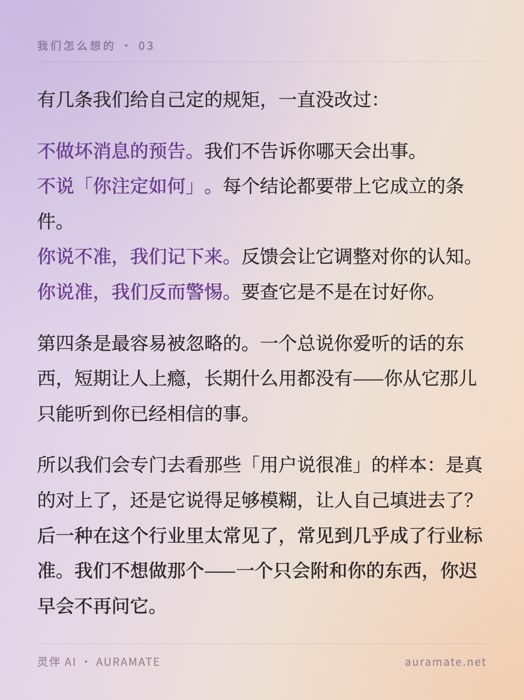
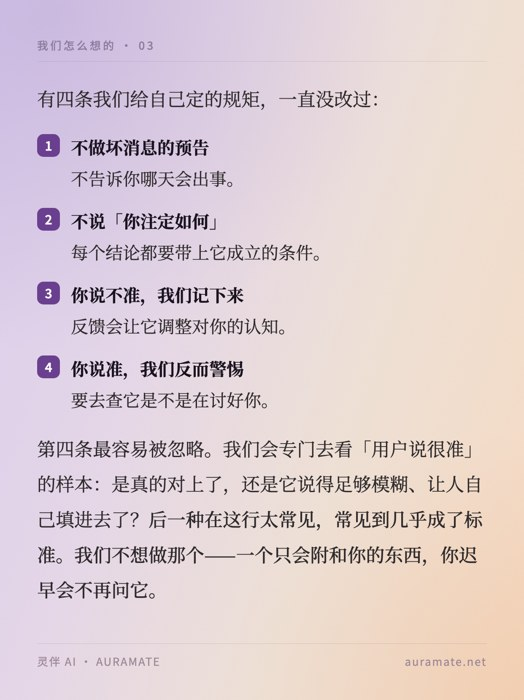
并列内容改成编号列表：规则 / 原则 / 清单
用户：「有些重点内容需要发 1 2 3 那种」。当时活动帖的「怎么参加」是五段散文，
规则（带标签发笔记 / 挑十个 / 送一个月会员 / 评选标准）全埋在里面，
手机上扫一眼什么都抓不到。

模板加 ol.list 块：紫色圆角编号 + 加粗要点独占一行 + 下面一句解释。
三处改成列表 —— 活动帖「规则三条」、理念帖「四条规矩」、节令「这几天三件事」。

判断标准写进 03-copywriting 第七节，就一条：**这段内容之间是什么关系**。
  N 件并列的事（规则/步骤/清单/对照）→ 编号列表
  一条推导链（前提→结论、痛点→reframe→落点、机制解释）→ 保持段落

⚠ 推导链千万别编号 —— 编号会把前后的推导关系切成并列，读者以为是三件不相干的事。
所以十神的「气通/气不通」机制、叙事随笔的痛点→落点、「木换五个人看」都保持段落。
教程的八个术语翻译也不编号，它是查表不是步骤。

顺带修一个自己埋的雷：模板注释里写了「编号会把因果切成并列」，
「因果」是违禁词，而这条注释会跟着每个生成的 slide 走 ——
等于给未来每一篇 post 埋了个永久误报。已换成「前后的推导关系」。

20 张仍全部写满，红线通过。

Changed region(s): [[0.0611, 0.18, 0.916, 0.6], [0.0611, 0.63, 0.916, 0.9], [0.0916, 0.12, 0.1527, 0.15]]

diff --git a/docs/demo/07-dashang-2.html b/docs/demo/07-dashang-2.html
@@ -21,16 +21,26 @@ html,body{width:1242px;height:1660px;font-family:'Noto Serif SC','Songti SC',ser
 .body .em{color:#6b3f8f;font-weight:500;}
 .body .en{color:#8a5a52;font-style:italic;}
 .body .last{font-weight:500;}
+/* 编号列表 —— 内容本身是「N 件并列的事」时用它，别写成散文。
+   规则 / 步骤 / 清单 / 对照，手机上扫一眼就能抓到要点。
+   ⚠ 一条推导链**不要**编号 —— 编号会把前后的推导关系切成并列，逻辑就断了。 */
+.body ol.list{counter-reset:n;list-style:none;margin:6px 0 0;}
+.body ol.list li{counter-increment:n;position:relative;padding-left:80px;margin-bottom:30px;
+  font-size:41px;line-height:1.72;}
+.body ol.list li:last-child{margin-bottom:0;}
+.body ol.list li::before{content:counter(n);position:absolute;left:0;top:4px;
+  width:54px;height:54px;border-radius:15px;background:#6b3f8f;color:#fff;
+  font-family:'Noto Sans SC','PingFang SC',sans-serif;font-size:30px;font-weight:700;
+  display:flex;align-items:center;justify-content:center;}
+.body ol.list b{display:block;font-weight:700;color:#1a1420;margin-bottom:4px;}
 .foot{padding-top:22px;border-top:1px solid rgba(90,70,95,0.18);display:flex;justify-content:space-between;align-items:center;
   font-family:'Noto Sans SC','PingFang SC',sans-serif;font-size:26px;color:#9e8a99;letter-spacing:0.1em;}
 </style></head><body><div class="frame">
 <div class="kicker">灵体大赏 · 01</div>
 <div class="body">
-  <p>每个人的灵体都是按自己那份出生时间数据算出来的一颗，颜色、形状、亮的位置全不一样。看得多了会发现，有些人的那颗<span class="em">是真的好看</span>。</p>
-  <p>所以办一次灵体大赏：带话题标签发一条自己的笔记，把你那颗放出来就行。我们挑十个，各送<span class="em">一个月会员</span>。</p>
-  <p>评选没什么复杂标准，就一条：<span class="em">好看</span>。颜色配得好的、形状有意思的、亮的位置特别的，都算。我们不会按谁的粉丝多来挑，也不看你笔记写得长不长。想多写两句为什么这颗是这个样子，当然更好看，但不写也不影响入选。</p>
-  <p>至于为什么办这个：灵体是这个产品里我们自己最喜欢的部分，但它长在每个人自己那儿——我们说一百句都不如你们把它放出来。</p>
-  <p><span class="last">不用在评论区做什么，也不用来找我，正常发笔记就行。挑完发一条公示，把入选的十颗放一起——那张图应该会很好看。</span></p>
+  <p>每个人的灵体都是按自己那份出生时间数据算出来的一颗，颜色、形状、亮的位置全不一样。看得多了会发现，有些人的那颗<span class="em">是真的好看</span>。所以办一次大赏，规则三条：</p>
+  <p><ol class="list"><li><b>带 #灵体大赏 标签发一条自己的笔记</b>把你那颗放出来就行。不用在评论区做什么，也不用来找我。</li><li><b>我们挑十个，各送一个月会员</b>评选只看一条：好看。颜色配得好的、形状有意思的、亮的位置特别的，都算。</li><li><b>不看粉丝数，也不看笔记长短</b>想写两句为什么这颗长这样当然更好，不写也不影响入选。</li></ol></p>
+  <p><span class="last">为什么办这个：灵体是这个产品里我们自己最喜欢的部分，但它长在每个人自己那儿——我们说一百句，都不如你们把它放出来。挑完会发一条公示，把入选的十颗放一起，那张图应该会很好看。</span></p>
 </div>
 <div class="foot"><span>灵伴 AI · AURAMATE</span><span>auramate.net</span></div>
 </div></body></html>

diff --git a/docs/demo/09-linian-4.html b/docs/demo/09-linian-4.html
@@ -21,15 +21,26 @@ html,body{width:1242px;height:1660px;font-family:'Noto Serif SC','Songti SC',ser
 .body .em{color:#6b3f8f;font-weight:500;}
 .body .en{color:#8a5a52;font-style:italic;}
 .body .last{font-weight:500;}
+/* 编号列表 —— 内容本身是「N 件并列的事」时用它，别写成散文。
+   规则 / 步骤 / 清单 / 对照，手机上扫一眼就能抓到要点。
+   ⚠ 一条推导链**不要**编号 —— 编号会把前后的推导关系切成并列，逻辑就断了。 */
+.body ol.list{counter-reset:n;list-style:none;margin:6px 0 0;}
+.body ol.list li{counter-increment:n;position:relative;padding-left:80px;margin-bottom:30px;
+  font-size:41px;line-height:1.72;}
+.body ol.list li:last-child{margin-bottom:0;}
+.body ol.list li::before{content:counter(n);position:absolute;left:0;top:4px;
+  width:54px;height:54px;border-radius:15px;background:#6b3f8f;color:#fff;
+  font-family:'Noto Sans SC','PingFang SC',sans-serif;font-size:30px;font-weight:700;
+  display:flex;align-items:center;justify-content:center;}
+.body ol.list b{display:block;font-weight:700;color:#1a1420;margin-bottom:4px;}
 .foot{padding-top:22px;border-top:1px solid rgba(90,70,95,0.18);display:flex;justify-content:space-between;align-items:center;
   font-family:'Noto Sans SC','PingFang SC',sans-serif;font-size:26px;color:#9e8a99;letter-spacing:0.1em;}
 </style></head><body><div class="frame">
 <div class="kicker">我们怎么想的 · 03</div>
 <div class="body">
-  <p>有几条我们给自己定的规矩，一直没改过：</p>
-  <p><span class="em">不做坏消息的预告。</span>我们不告诉你哪天会出事。<br/><span class="em">不说「你注定如何」。</span>每个结论都要带上它成立的条件。<br/><span class="em">你说不准，我们记下来。</span>反馈会让它调整对你的认知。<br/><span class="em">你说准，我们反而警惕。</span>要查它是不是在讨好你。</p>
-  <p>第四条是最容易被忽略的。一个总说你爱听的话的东西，短期让人上瘾，长期什么用都没有——你从它那儿只能听到你已经相信的事。</p>
-  <p>所以我们会专门去看那些「用户说很准」的样本：是真的对上了，还是它说得足够模糊，让人自己填进去了？<span class="last">后一种在这个行业里太常见了，常见到几乎成了行业标准。我们不想做那个——一个只会附和你的东西，你迟早会不再问它。</span></p>
+  <p>有四条我们给自己定的规矩，一直没改过：</p>
+  <p><ol class="list"><li><b>不做坏消息的预告</b>不告诉你哪天会出事。</li><li><b>不说「你注定如何」</b>每个结论都要带上它成立的条件。</li><li><b>你说不准，我们记下来</b>反馈会让它调整对你的认知。</li><li><b>你说准，我们反而警惕</b>要去查它是不是在讨好你。</li></ol></p>
+  <p>第四条最容易被忽略。我们会专门去看「用户说很准」的样本：是真的对上了，还是它说得足够模糊、让人自己填进去了？<span class="last">后一种在这行太常见，常见到几乎成了标准。我们不想做那个——一个只会附和你的东西，你迟早会不再问它。</span></p>
 </div>
 <div class="foot"><span>灵伴 AI · AURAMATE</span><span>auramate.net</span></div>
 </div></body></html>

diff --git a/docs/demo/08-jieling-5.html b/docs/demo/08-jieling-5.html
@@ -21,16 +21,27 @@ html,body{width:1242px;height:1660px;font-family:'Noto Serif SC','Songti SC',ser
 .body .em{color:#6b3f8f;font-weight:500;}
 .body .en{color:#8a5a52;font-style:italic;}
 .body .last{font-weight:500;}
+/* 编号列表 —— 内容本身是「N 件并列的事」时用它，别写成散文。
+   规则 / 步骤 / 清单 / 对照，手机上扫一眼就能抓到要点。
+   ⚠ 一条推导链**不要**编号 —— 编号会把前后的推导关系切成并列，逻辑就断了。 */
+.body ol.list{counter-reset:n;list-style:none;margin:6px 0 0;}
+.body ol.list li{counter-increment:n;position:relative;padding-left:80px;margin-bottom:30px;
+  font-size:41px;line-height:1.72;}
+.body ol.list li:last-child{margin-bottom:0;}
+.body ol.list li::before{content:counter(n);position:absolute;left:0;top:4px;
+  width:54px;height:54px;border-radius:15px;background:#6b3f8f;color:#fff;
+  font-family:'Noto Sans SC','PingFang SC',sans-serif;font-size:30px;font-weight:700;
+  display:flex;align-items:center;justify-content:center;}
+.body ol.list b{display:block;font-weight:700;color:#1a1420;margin-bottom:4px;}
 .foot{padding-top:22px;border-top:1px solid rgba(90,70,95,0.18);display:flex;justify-content:space-between;align-items:center;
   font-family:'Noto Sans SC','PingFang SC',sans-serif;font-size:26px;color:#9e8a99;letter-spacing:0.1em;}
 </style></head><body><div class="frame">
 <div class="kicker">节气手记 · 04</div>
 <div class="body">
-  <p>知道是脾在硬撑，这几天该怎么过就清楚了。</p>
-  <p><span class="em">少碰冰的</span>——热在体表、里头本来就是凉的，一杯冰饮下去，最先受不了的就是它。<br/><span class="em">把午觉睡回来</span>——长夏最耗的是白天那段，补在中午比熬到晚上有用。<br/><span class="em">出微汗就行</span>——出汗是散湿的，但汗出大了力气也跟着走。</p>
-  <p>三件事都是常识，没有一件是玄的。区别只在于：<span class="em">平时做不做无所谓，这十几天做不做，体感差很多。</span></p>
-  <p>也不用把它当成必须完成的任务。知道这几天身体在硬撑，把要求往下调一档就够了——该慢的时候慢，别硬跟自己较劲。</p>
-  <p><span class="last">你觉得累，真的不是你懒——是这段时间它本来就难。</span></p>
+  <p>知道是脾在硬撑，这几天该怎么过就清楚了。三件事，都是常识：</p>
+  <p><ol class="list"><li><b>少碰冰的</b>热在体表、里头本来就是凉的，一杯冰饮下去，最先受不了的就是它。</li><li><b>把午觉睡回来</b>长夏最耗的是白天那段，补在中午比熬到晚上有用。</li><li><b>出微汗就行，别练到大汗</b>出汗是散湿的，但汗出大了，力气也跟着走。</li></ol></p>
+  <p>三件都不玄。区别只在于：平时做不做无所谓，<span class="em">这十几天做不做，体感差很多</span>。</p>
+  <p>也不用把它当成任务。知道这几天身体在硬撑，把对自己的要求往下调一档就够了——该慢的时候慢，别硬跟自己较劲。<span class="last">你觉得累，真的不是你懒——是这段时间它本来就难。</span></p>
 </div>
 <div class="foot"><span>灵伴 AI · AURAMATE</span><span>auramate.net</span></div>
 </div></body></html>

diff --git a/docs/demo/01-reframe-2.html b/docs/demo/01-reframe-2.html
@@ -21,6 +21,18 @@ html,body{width:1242px;height:1660px;font-family:'Noto Serif SC','Songti SC',ser
 .body .em{color:#6b3f8f;font-weight:500;}
 .body .en{color:#8a5a52;font-style:italic;}
 .body .last{font-weight:500;}
+/* 编号列表 —— 内容本身是「N 件并列的事」时用它，别写成散文。
+   规则 / 步骤 / 清单 / 对照，手机上扫一眼就能抓到要点。
+   ⚠ 一条推导链**不要**编号 —— 编号会把前后的推导关系切成并列，逻辑就断了。 */
+.body ol.list{counter-reset:n;list-style:none;margin:6px 0 0;}
+.body ol.list li{counter-increment:n;position:relative;padding-left:80px;margin-bottom:30px;
+  font-size:41px;line-height:1.72;}
+.body ol.list li:last-child{margin-bottom:0;}
+.body ol.list li::before{content:counter(n);position:absolute;left:0;top:4px;
+  width:54px;height:54px;border-radius:15px;background:#6b3f8f;color:#fff;
+  font-family:'Noto Sans SC','PingFang SC',sans-serif;font-size:30px;font-weight:700;
+  display:flex;align-items:center;justify-content:center;}
+.body ol.list b{display:block;font-weight:700;color:#1a1420;margin-bottom:4px;}
 .foot{padding-top:22px;border-top:1px solid rgba(90,70,95,0.18);display:flex;justify-content:space-between;align-items:center;
   font-family:'Noto Sans SC','PingFang SC',sans-serif;font-size:26px;color:#9e8a99;letter-spacing:0.1em;}
 </style></head><body><div class="frame">

diff --git a/docs/demo/01-reframe-3.html b/docs/demo/01-reframe-3.html
@@ -21,6 +21,18 @@ html,body{width:1242px;height:1660px;font-family:'Noto Serif SC','Songti SC',ser
 .body .em{color:#6b3f8f;font-weight:500;}
 .body .en{color:#8a5a52;font-style:italic;}
 .body .last{font-weight:500;}
+/* 编号列表 —— 内容本身是「N 件并列的事」时用它，别写成散文。
+   规则 / 步骤 / 清单 / 对照，手机上扫一眼就能抓到要点。
+   ⚠ 一条推导链**不要**编号 —— 编号会把前后的推导关系切成并列，逻辑就断了。 */
+.body ol.list{counter-reset:n;list-style:none;margin:6px 0 0;}
+.body ol.list li{counter-increment:n;position:relative;padding-left:80px;margin-bottom:30px;
+  font-size:41px;line-height:1.72;}
+.body ol.list li:last-child{margin-bottom:0;}
+.body ol.list li::before{content:counter(n);position:absolute;left:0;top:4px;
+  width:54px;height:54px;border-radius:15px;background:#6b3f8f;color:#fff;
+  font-family:'Noto Sans SC','PingFang SC',sans-serif;font-size:30px;font-weight:700;
+  display:flex;align-items:center;justify-content:center;}
+.body ol.list b{display:block;font-weight:700;color:#1a1420;margin-bottom:4px;}
 .foot{padding-top:22px;border-top:1px solid rgba(90,70,95,0.18);display:flex;justify-content:space-between;align-items:center;
   font-family:'Noto Sans SC','PingFang SC',sans-serif;font-size:26px;color:#9e8a99;letter-spacing:0.1em;}
 </style></head><body><div class="frame">

diff --git a/docs/demo/01-reframe-6.html b/docs/demo/01-reframe-6.html
@@ -21,6 +21,18 @@ html,body{width:1242px;height:1660px;font-family:'Noto Serif SC','Songti SC',ser
 .body .em{color:#6b3f8f;font-weight:500;}
 .body .en{color:#8a5a52;font-style:italic;}
 .body .last{font-weight:500;}
+/* 编号列表 —— 内容本身是「N 件并列的事」时用它，别写成散文。
+   规则 / 步骤 / 清单 / 对照，手机上扫一眼就能抓到要点。
+   ⚠ 一条推导链**不要**编号 —— 编号会把前后的推导关系切成并列，逻辑就断了。 */
+.body ol.list{counter-reset:n;list-style:none;margin:6px 0 0;}
+.body ol.list li{counter-increment:n;position:relative;padding-left:80px;margin-bottom:30px;
+  font-size:41px;line-height:1.72;}
+.body ol.list li:last-child{margin-bottom:0;}
+.body ol.list li::before{content:counter(n);position:absolute;left:0;top:4px;
+  width:54px;height:54px;border-radius:15px;background:#6b3f8f;color:#fff;
+  font-family:'Noto Sans SC','PingFang SC',sans-serif;font-size:30px;font-weight:700;
+  display:flex;align-items:center;justify-content:center;}
+.body ol.list b{display:block;font-weight:700;color:#1a1420;margin-bottom:4px;}
 .foot{padding-top:22px;border-top:1px solid rgba(90,70,95,0.18);display:flex;justify-content:space-between;align-items:center;
   font-family:'Noto Sans SC','PingFang SC',sans-serif;font-size:26px;color:#9e8a99;letter-spacing:0.1em;}
 </style></head><body><div class="frame">

diff --git a/docs/demo/02-shishen-2.html b/docs/demo/02-shishen-2.html
@@ -21,6 +21,18 @@ html,body{width:1242px;height:1660px;font-family:'Noto Serif SC','Songti SC',ser
 .body .em{color:#6b3f8f;font-weight:500;}
 .body .en{color:#8a5a52;font-style:italic;}
 .body .last{font-weight:500;}
+/* 编号列表 —— 内容本身是「N 件并列的事」时用它，别写成散文。
+   规则 / 步骤 / 清单 / 对照，手机上扫一眼就能抓到要点。
+   ⚠ 一条推导链**不要**编号 —— 编号会把前后的推导关系切成并列，逻辑就断了。 */
+.body ol.list{counter-reset:n;list-style:none;margin:6px 0 0;}
+.body ol.list li{counter-increment:n;position:relative;padding-left:80px;margin-bottom:30px;
+  font-size:41px;line-height:1.72;}
+.body ol.list li:last-child{margin-bottom:0;}
+.body ol.list li::before{content:counter(n);position:absolute;left:0;top:4px;
+  width:54px;height:54px;border-radius:15px;background:#6b3f8f;color:#fff;
+  font-family:'Noto Sans SC','PingFang SC',sans-serif;font-size:30px;font-weight:700;
+  display:flex;align-items:center;justify-content:center;}
+.body ol.list b{display:block;font-weight:700;color:#1a1420;margin-bottom:4px;}
 .foot{padding-top:22px;border-top:1px solid rgba(90,70,95,0.18);display:flex;justify-content:space-between;align-items:center;
   font-family:'Noto Sans SC','PingFang SC',sans-serif;font-size:26px;color:#9e8a99;letter-spacing:0.1em;}
 </style></head><body><div class="frame">

diff --git a/docs/demo/02-shishen-3.html b/docs/demo/02-shishen-3.html
@@ -21,6 +21,18 @@ html,body{width:1242px;height:1660px;font-family:'Noto Serif SC','Songti SC',ser
 .body .em{color:#6b3f8f;font-weight:500;}
 .body .en{color:#8a5a52;font-style:italic;}
 .body .last{font-weight:500;}
+/* 编号列表 —— 内容本身是「N 件并列的事」时用它，别写成散文。
+   规则 / 步骤 / 清单 / 对照，手机上扫一眼就能抓到要点。
+   ⚠ 一条推导链**不要**编号 —— 编号会把前后的推导关系切成并列，逻辑就断了。 */
+.body ol.list{counter-reset:n;list-style:none;margin:6px 0 0;}
+.body ol.list li{counter-increment:n;position:relative;padding-left:80px;margin-bottom:30px;
+  font-size:41px;line-height:1.72;}
+.body ol.list li:last-child{margin-bottom:0;}
+.body ol.list li::before{content:counter(n);position:absolute;left:0;top:4px;
+  width:54px;height:54px;border-radius:15px;background:#6b3f8f;color:#fff;
+  font-family:'Noto Sans SC','PingFang SC',sans-serif;font-size:30px;font-weight:700;
+  display:flex;align-items:center;justify-content:center;}
+.body ol.list b{display:block;font-weight:700;color:#1a1420;margin-bottom:4px;}
 .foot{padding-top:22px;border-top:1px solid rgba(90,70,95,0.18);display:flex;justify-content:space-between;align-items:center;
   font-family:'Noto Sans SC','PingFang SC',sans-serif;font-size:26px;color:#9e8a99;letter-spacing:0.1em;}
 </style></head><body><div class="frame">

diff --git a/docs/demo/02-shishen-4.html b/docs/demo/02-shishen-4.html
@@ -21,6 +21,18 @@ html,body{width:1242px;height:1660px;font-family:'Noto Serif SC','Songti SC',ser
 .body .em{color:#6b3f8f;font-weight:500;}
 .body .en{color:#8a5a52;font-style:italic;}
 .body .last{font-weight:500;}
+/* 编号列表 —— 内容本身是「N 件并列的事」时用它，别写成散文。
+   规则 / 步骤 / 清单 / 对照，手机上扫一眼就能抓到要点。
+   ⚠ 一条推导链**不要**编号 —— 编号会把前后的推导关系切成并列，逻辑就断了。 */
+.body ol.list{counter-reset:n;list-style:none;margin:6px 0 0;}
+.body ol.list li{counter-increment:n;position:relative;padding-left:80px;margin-bottom:30px;
+  font-size:41px;line-height:1.72;}
+.body ol.list li:last-child{margin-bottom:0;}
+.body ol.list li::before{content:counter(n);position:absolute;left:0;top:4px;
+  width:54px;height:54px;border-radius:15px;background:#6b3f8f;color:#fff;
+  font-family:'Noto Sans SC','PingFang SC',sans-serif;font-size:30px;font-weight:700;
+  display:flex;align-items:center;justify-content:center;}
+.body ol.list b{display:block;font-weight:700;color:#1a1420;margin-bottom:4px;}
 .foot{padding-top:22px;border-top:1px solid rgba(90,70,95,0.18);display:flex;justify-content:space-between;align-items:center;
   font-family:'Noto Sans SC','PingFang SC',sans-serif;font-size:26px;color:#9e8a99;letter-spacing:0.1em;}
 </style></head><body><div class="frame">

diff --git a/docs/demo/02-shishen-6.html b/docs/demo/02-shishen-6.html
@@ -21,6 +21,18 @@ html,body{width:1242px;height:1660px;font-family:'Noto Serif SC','Songti SC',ser
 .body .em{color:#6b3f8f;font-weight:500;}
 .body .en{color:#8a5a52;font-style:italic;}
 .body .last{font-weight:500;}
+/* 编号列表 —— 内容本身是「N 件并列的事」时用它，别写成散文。
+   规则 / 步骤 / 清单 / 对照，手机上扫一眼就能抓到要点。
+   ⚠ 一条推导链**不要**编号 —— 编号会把前后的推导关系切成并列，逻辑就断了。 */
+.body ol.list{counter-reset:n;list-style:none;margin:6px 0 0;}
+.body ol.list li{counter-increment:n;position:relative;padding-left:80px;margin-bottom:30px;
+  font-size:41px;line-height:1.72;}
+.body ol.list li:last-child{margin-bottom:0;}
+.body ol.list li::before{content:counter(n);position:absolute;left:0;top:4px;
+  width:54px;height:54px;border-radius:15px;background:#6b3f8f;color:#fff;
+  font-family:'Noto Sans SC','PingFang SC',sans-serif;font-size:30px;font-weight:700;
+  display:flex;align-items:center;justify-content:center;}
+.body ol.list b{display:block;font-weight:700;color:#1a1420;margin-bottom:4px;}
 .foot{padding-top:22px;border-top:1px solid rgba(90,70,95,0.18);display:flex;justify-content:space-between;align-items:center;
   font-family:'Noto Sans SC','PingFang SC',sans-serif;font-size:26px;color:#9e8a99;letter-spacing:0.1em;}
 </style></head><body><div class="frame">

diff --git a/docs/demo/04-gongneng-2.html b/docs/demo/04-gongneng-2.html
@@ -21,6 +21,18 @@ html,body{width:1242px;height:1660px;font-family:'Noto Serif SC','Songti SC',ser
 .body .em{color:#6b3f8f;font-weight:500;}
 .body .en{color:#8a5a52;font-style:italic;}
 .body .last{font-weight:500;}
+/* 编号列表 —— 内容本身是「N 件并列的事」时用它，别写成散文。
+   规则 / 步骤 / 清单 / 对照，手机上扫一眼就能抓到要点。
+   ⚠ 一条推导链**不要**编号 —— 编号会把前后的推导关系切成并列，逻辑就断了。 */
+.body ol.list{counter-reset:n;list-style:none;margin:6px 0 0;}
+.body ol.list li{counter-increment:n;position:relative;padding-left:80px;margin-bottom:30px;
+  font-size:41px;line-height:1.72;}
+.body ol.list li:last-child{margin-bottom:0;}
+.body ol.list li::before{content:counter(n);position:absolute;left:0;top:4px;
+  width:54px;height:54px;border-radius:15px;background:#6b3f8f;color:#fff;
+  font-family:'Noto Sans SC','PingFang SC',sans-serif;font-size:30px;font-weight:700;
+  display:flex;align-items:center;justify-content:center;}
+.body ol.list b{display:block;font-weight:700;color:#1a1420;margin-bottom:4px;}
 .foot{padding-top:22px;border-top:1px solid rgba(90,70,95,0.18);display:flex;justify-content:space-between;align-items:center;
   font-family:'Noto Sans SC','PingFang SC',sans-serif;font-size:26px;color:#9e8a99;letter-spacing:0.1em;}
 </style></head><body><div class="frame">

diff --git a/docs/demo/05-baziqa-3.html b/docs/demo/05-baziqa-3.html
@@ -21,6 +21,18 @@ html,body{width:1242px;height:1660px;font-family:'Noto Serif SC','Songti SC',ser
 .body .em{color:#6b3f8f;font-weight:500;}
 .body .en{color:#8a5a52;font-style:italic;}
 .body .last{font-weight:500;}
+/* 编号列表 —— 内容本身是「N 件并列的事」时用它，别写成散文。
+   规则 / 步骤 / 清单 / 对照，手机上扫一眼就能抓到要点。
+   ⚠ 一条推导链**不要**编号 —— 编号会把前后的推导关系切成并列，逻辑就断了。 */
+.body ol.list{counter-reset:n;list-style:none;margin:6px 0 0;}
+.body ol.list li{counter-increment:n;position:relative;padding-left:80px;margin-bottom:30px;
+  font-size:41px;line-height:1.72;}
+.body ol.list li:last-child{margin-bottom:0;}
+.body ol.list li::before{content:counter(n);position:absolute;left:0;top:4px;
+  width:54px;height:54px;border-radius:15px;background:#6b3f8f;color:#fff;
+  font-family:'Noto Sans SC','PingFang SC',sans-serif;font-size:30px;font-weight:700;
+  display:flex;align-items:center;justify-content:center;}
+.body ol.list b{display:block;font-weight:700;color:#1a1420;margin-bottom:4px;}
 .foot{padding-top:22px;border-top:1px solid rgba(90,70,95,0.18);display:flex;justify-content:space-between;align-items:center;
   font-family:'Noto Sans SC','PingFang SC',sans-serif;font-size:26px;color:#9e8a99;letter-spacing:0.1em;}
 </style></head><body><div class="frame">
